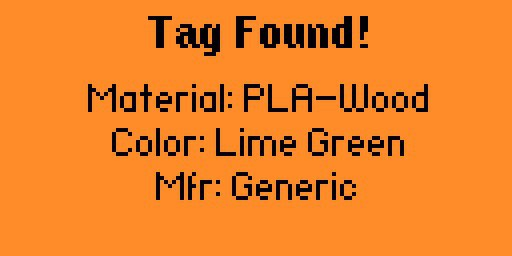
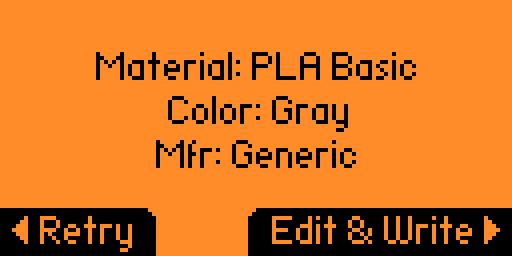
Add Edit & Write shortcut from read result screen, bump to 0.1.2
After a successful tag read, show a Widget with Retry (left) and
Edit & Write (right) button hints instead of plain popup text.
OK on Edit & Write pre-fills WriteCfg with the read tag's material,
color and manufacturer and navigates there directly.

Changed region(s): [[0.1562, 0.0312, 0.8438, 0.7812], [0.4688, 0.8125, 1.0, 1.0], [0.0, 0.8125, 0.3125, 1.0]]

diff --git a/scenes/scene_read.c b/scenes/scene_read.c
@@ -1,6 +1,16 @@
 #include "../flipbox.h"
 #include <stdio.h>
 
+static void read_btn_cb(GuiButtonType type, InputType input_type, void* context) {
+    if(input_type != InputTypeShort) return;
+    FlipBoxApp* app = context;
+    if(type == GuiButtonTypeRight) {
+        view_dispatcher_send_custom_event(app->view_dispatcher, FlipBoxCustomEventReadEditTag);
+    } else if(type == GuiButtonTypeLeft) {
+        view_dispatcher_send_custom_event(app->view_dispatcher, FlipBoxCustomEventReadRetry);
+    }
+}
+
 void flipbox_scene_read_on_enter(void* context) {
     FlipBoxApp* app = context;
 
@@ -25,14 +35,52 @@ bool flipbox_scene_read_on_event(void* context, SceneManagerEvent event) {
                 qidi_material_name(d->material_code),
                 qidi_color_name(d->color_code),
                 qidi_mfr_name(d->manufacturer_code));
-            popup_set_header(app->popup, "Tag Found!", 64, 4, AlignCenter, AlignTop);
-            popup_set_text(app->popup, app->text_buf, 64, 36, AlignCenter, AlignCenter);
+
+            widget_reset(app->widget);
+            widget_add_string_multiline_element(
+                app->widget, 64, 28, AlignCenter, AlignCenter, FontSecondary, app->text_buf);
+            widget_add_button_element(
+                app->widget, GuiButtonTypeLeft, "Retry", read_btn_cb, app);
+            widget_add_button_element(
+                app->widget, GuiButtonTypeRight, "Edit & Write", read_btn_cb, app);
+
+            view_dispatcher_switch_to_view(app->view_dispatcher, FlipBoxViewWidget);
             notification_message(app->notification, &sequence_success);
+            consumed = true;
+        } else if(event.event == FlipBoxCustomEventReadRetry) {
+            popup_reset(app->popup);
+            popup_set_header(app->popup, "Read Tag", 64, 10, AlignCenter, AlignTop);
+            popup_set_text(app->popup, "Hold tag\nnear Flipper...", 64, 36, AlignCenter, AlignCenter);
+            view_dispatcher_switch_to_view(app->view_dispatcher, FlipBoxViewPopup);
+            nfc_worker_read(app->worker);
             consumed = true;
         } else if(event.event == FlipBoxCustomEventReadFail) {
             popup_set_header(app->popup, "Read Tag", 64, 10, AlignCenter, AlignTop);
             popup_set_text(app->popup, "No tag found.\nHold closer...", 64, 36, AlignCenter, AlignCenter);
             nfc_worker_read(app->worker);
+            consumed = true;
+        } else if(event.event == FlipBoxCustomEventReadEditTag) {
+            const QidiTagData* d = &app->last_read;
+
+            int mi = qidi_material_idx_by_code(d->material_code);
+            int ci = qidi_color_idx_by_code(d->color_code);
+            int ri = qidi_mfr_idx_by_code(d->manufacturer_code);
+            app->mat_idx = (mi >= 0) ? (uint8_t)mi : 0;
+            app->col_idx = (ci >= 0) ? (uint8_t)ci : 0;
+            app->mfr_idx = (ri >= 0) ? (uint8_t)ri : 0;
+
+            // find the group containing mat_idx so MaterialGroup opens at the right entry
+            app->group_idx = 0;
+            for(uint8_t g = 0; g < QIDI_GROUP_COUNT; g++) {
+                for(uint8_t k = 0; k < qidi_material_groups[g].count; k++) {
+                    if(qidi_material_groups[g].indices[k] == app->mat_idx) {
+                        app->group_idx = g;
+                        break;
+                    }
+                }
+            }
+
+            scene_manager_next_scene(app->scene_manager, FlipBoxSceneWriteCfg);
             consumed = true;
         }
     } else if(event.type == SceneManagerEventTypeBack) {
@@ -46,4 +94,5 @@ bool flipbox_scene_read_on_event(void* context, SceneManagerEvent event) {
 void flipbox_scene_read_on_exit(void* context) {
     FlipBoxApp* app = context;
     popup_reset(app->popup);
+    widget_reset(app->widget);
 }

diff --git a/flipbox.h b/flipbox.h
@@ -7,6 +7,7 @@
 #include <gui/modules/submenu.h>
 #include <gui/modules/popup.h>
 #include <gui/modules/variable_item_list.h>
+#include <gui/modules/widget.h>
 #include <notification/notification.h>
 #include <notification/notification_messages.h>
 
@@ -18,11 +19,14 @@ typedef enum {
     FlipBoxViewSubmenu,
     FlipBoxViewPopup,
     FlipBoxViewVariableItemList,
+    FlipBoxViewWidget,
 } FlipBoxView;
 
 typedef enum {
     FlipBoxCustomEventReadSuccess,
     FlipBoxCustomEventReadFail,
+    FlipBoxCustomEventReadRetry,
+    FlipBoxCustomEventReadEditTag,
     FlipBoxCustomEventWriteSuccess,
     FlipBoxCustomEventWriteFail,
 } FlipBoxCustomEvent;
@@ -36,6 +40,7 @@ typedef struct {
     Submenu*          submenu;
     Popup*            popup;
     VariableItemList* var_item_list;
+    Widget*           widget;
 
     NfcWorker*        worker;
 

diff --git a/flipbox.c b/flipbox.c
@@ -70,6 +70,10 @@ static FlipBoxApp* flipbox_app_alloc(void) {
         FlipBoxViewVariableItemList,
         variable_item_list_get_view(app->var_item_list));
 
+    app->widget = widget_alloc();
+    view_dispatcher_add_view(
+        app->view_dispatcher, FlipBoxViewWidget, widget_get_view(app->widget));
+
     // NFC worker
     app->worker = nfc_worker_alloc();
     nfc_worker_start(app->worker, flipbox_worker_cb, app);
@@ -91,6 +95,9 @@ static void flipbox_app_free(FlipBoxApp* app) {
 
     view_dispatcher_remove_view(app->view_dispatcher, FlipBoxViewVariableItemList);
     variable_item_list_free(app->var_item_list);
+
+    view_dispatcher_remove_view(app->view_dispatcher, FlipBoxViewWidget);
+    widget_free(app->widget);
 
     scene_manager_free(app->scene_manager);
     view_dispatcher_free(app->view_dispatcher);

diff --git a/scenes/scene_menu.c b/scenes/scene_menu.c
@@ -17,7 +17,7 @@ static void menu_cb(void* context, uint32_t index) {
 void flipbox_scene_menu_on_enter(void* context) {
     FlipBoxApp* app = context;
     submenu_reset(app->submenu);
-    submenu_set_header(app->submenu, "FlipBox - QIDI NFC");
+    submenu_set_header(app->submenu, "FlipBox: QIDI Box NFC");
     submenu_add_item(app->submenu, "Write Tag", MenuItemWrite, menu_cb, app);
     submenu_add_item(app->submenu, "Read Tag",  MenuItemRead,  menu_cb, app);
     view_dispatcher_switch_to_view(app->view_dispatcher, FlipBoxViewSubmenu);
